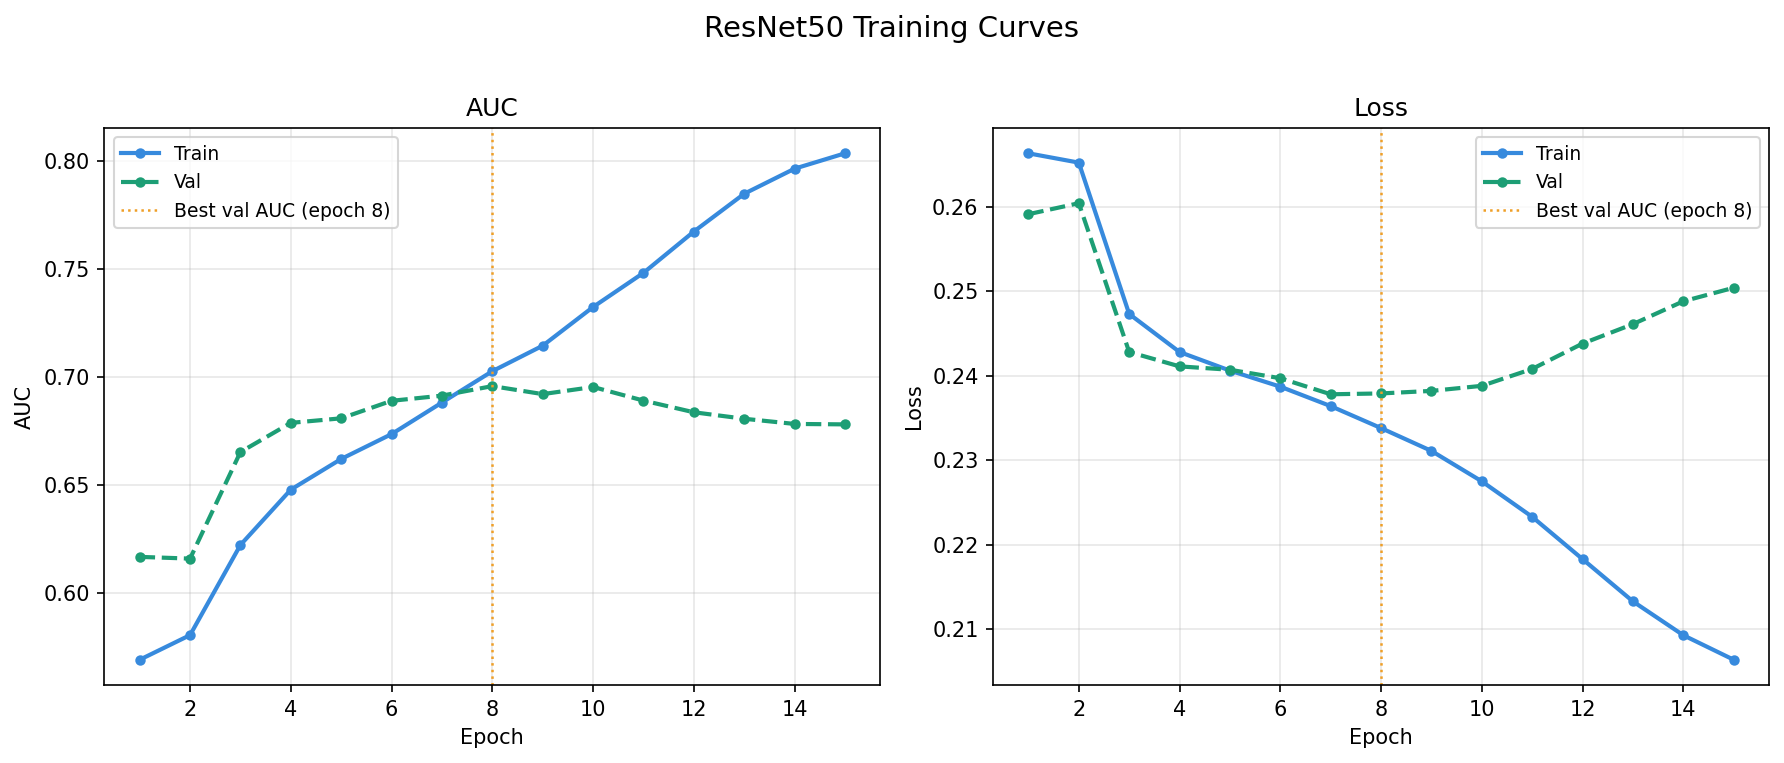
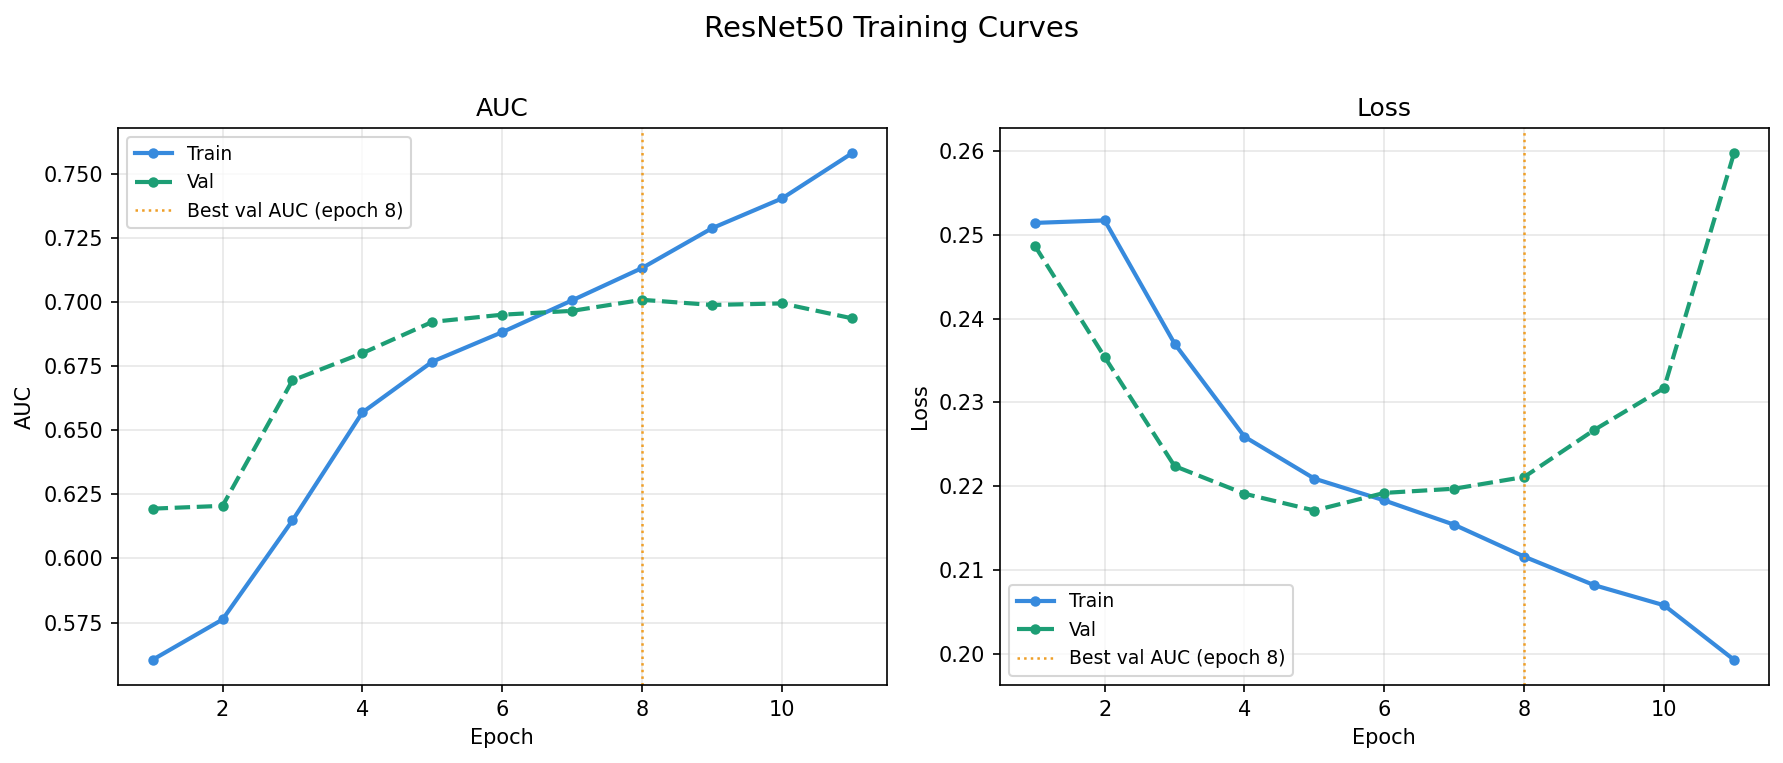
updates to resnet pipeline

diff --git a/resnet/visuals/plot_run.py b/resnet/visuals/plot_run.py
@@ -9,7 +9,7 @@ import matplotlib.ticker as ticker
 
 def parse_args():
     p = argparse.ArgumentParser()
-    p.add_argument("--metrics", default="first_run.csv")
+    p.add_argument("--metrics", default="second_run.csv")
     p.add_argument("--output",  default="training_curves.png")
     p.add_argument("--warmup_epochs", type=int, default=2)
     return p.parse_args()
